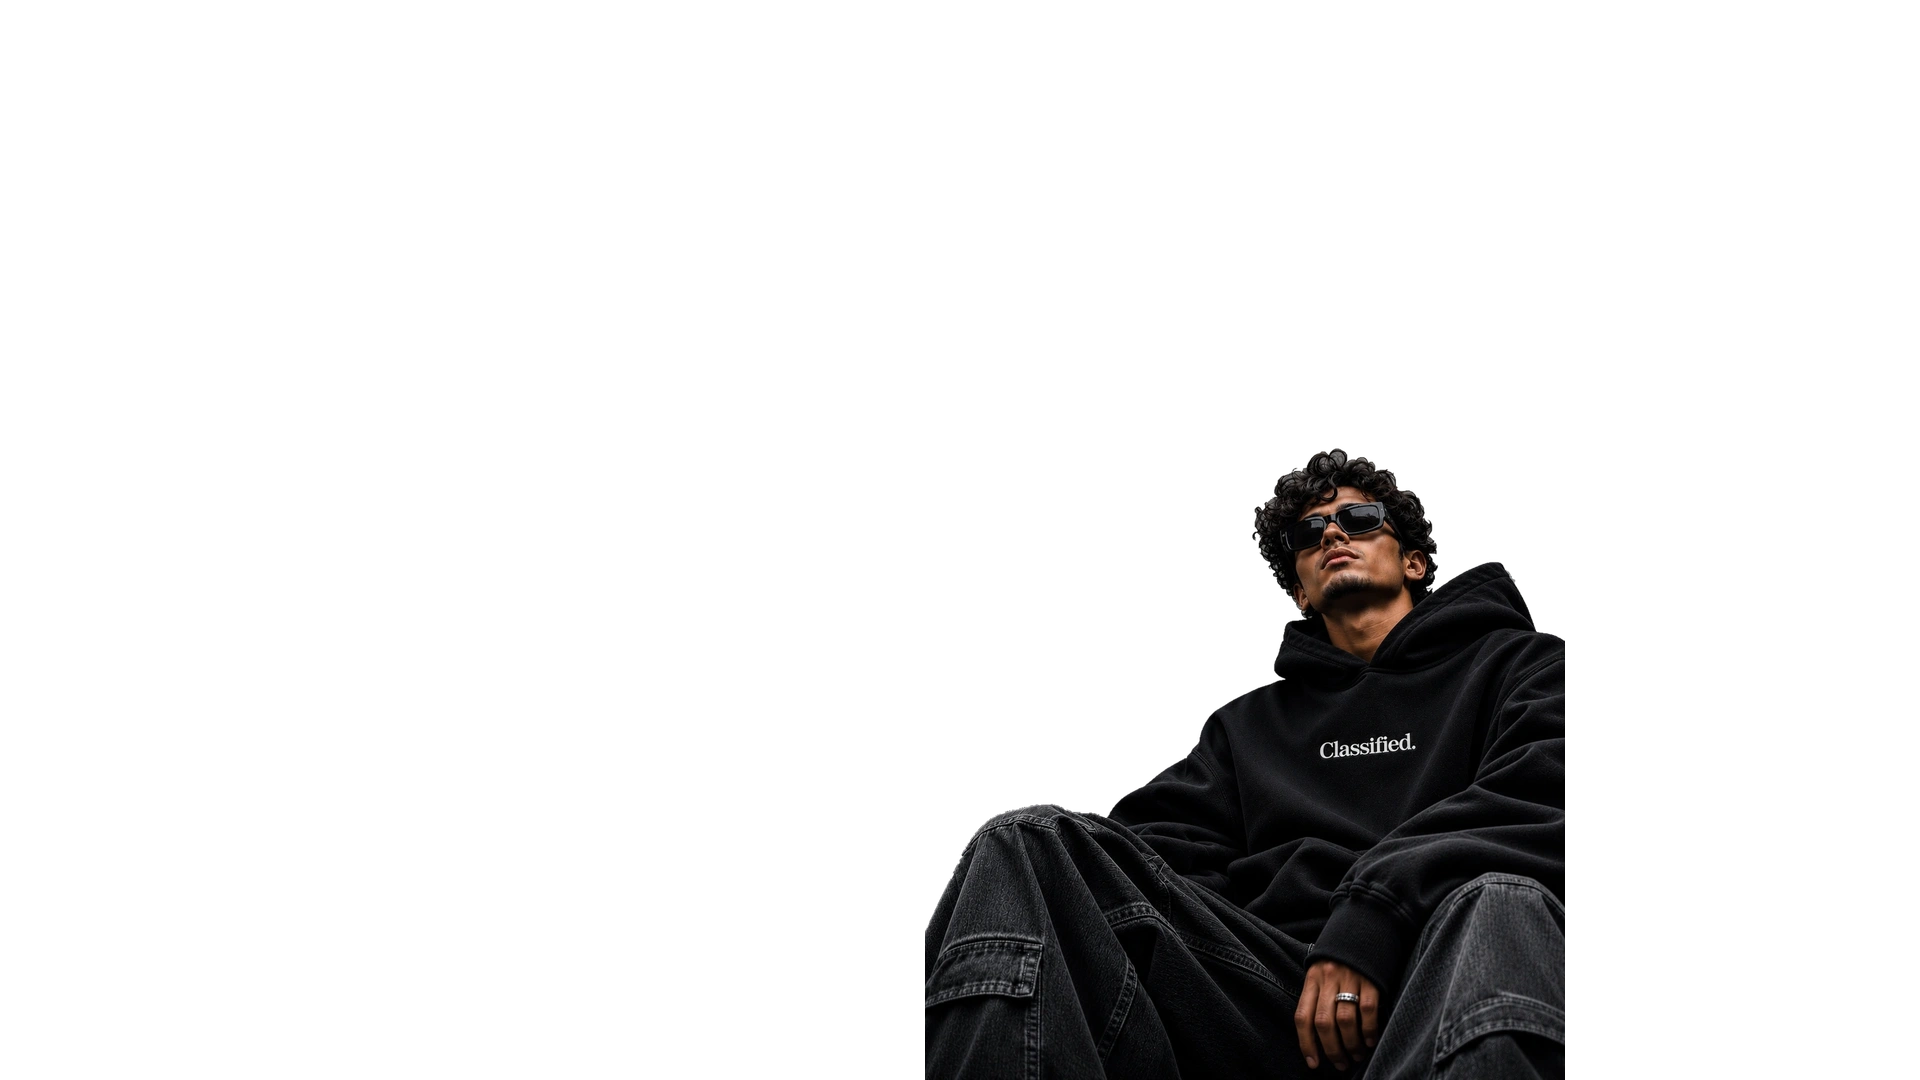
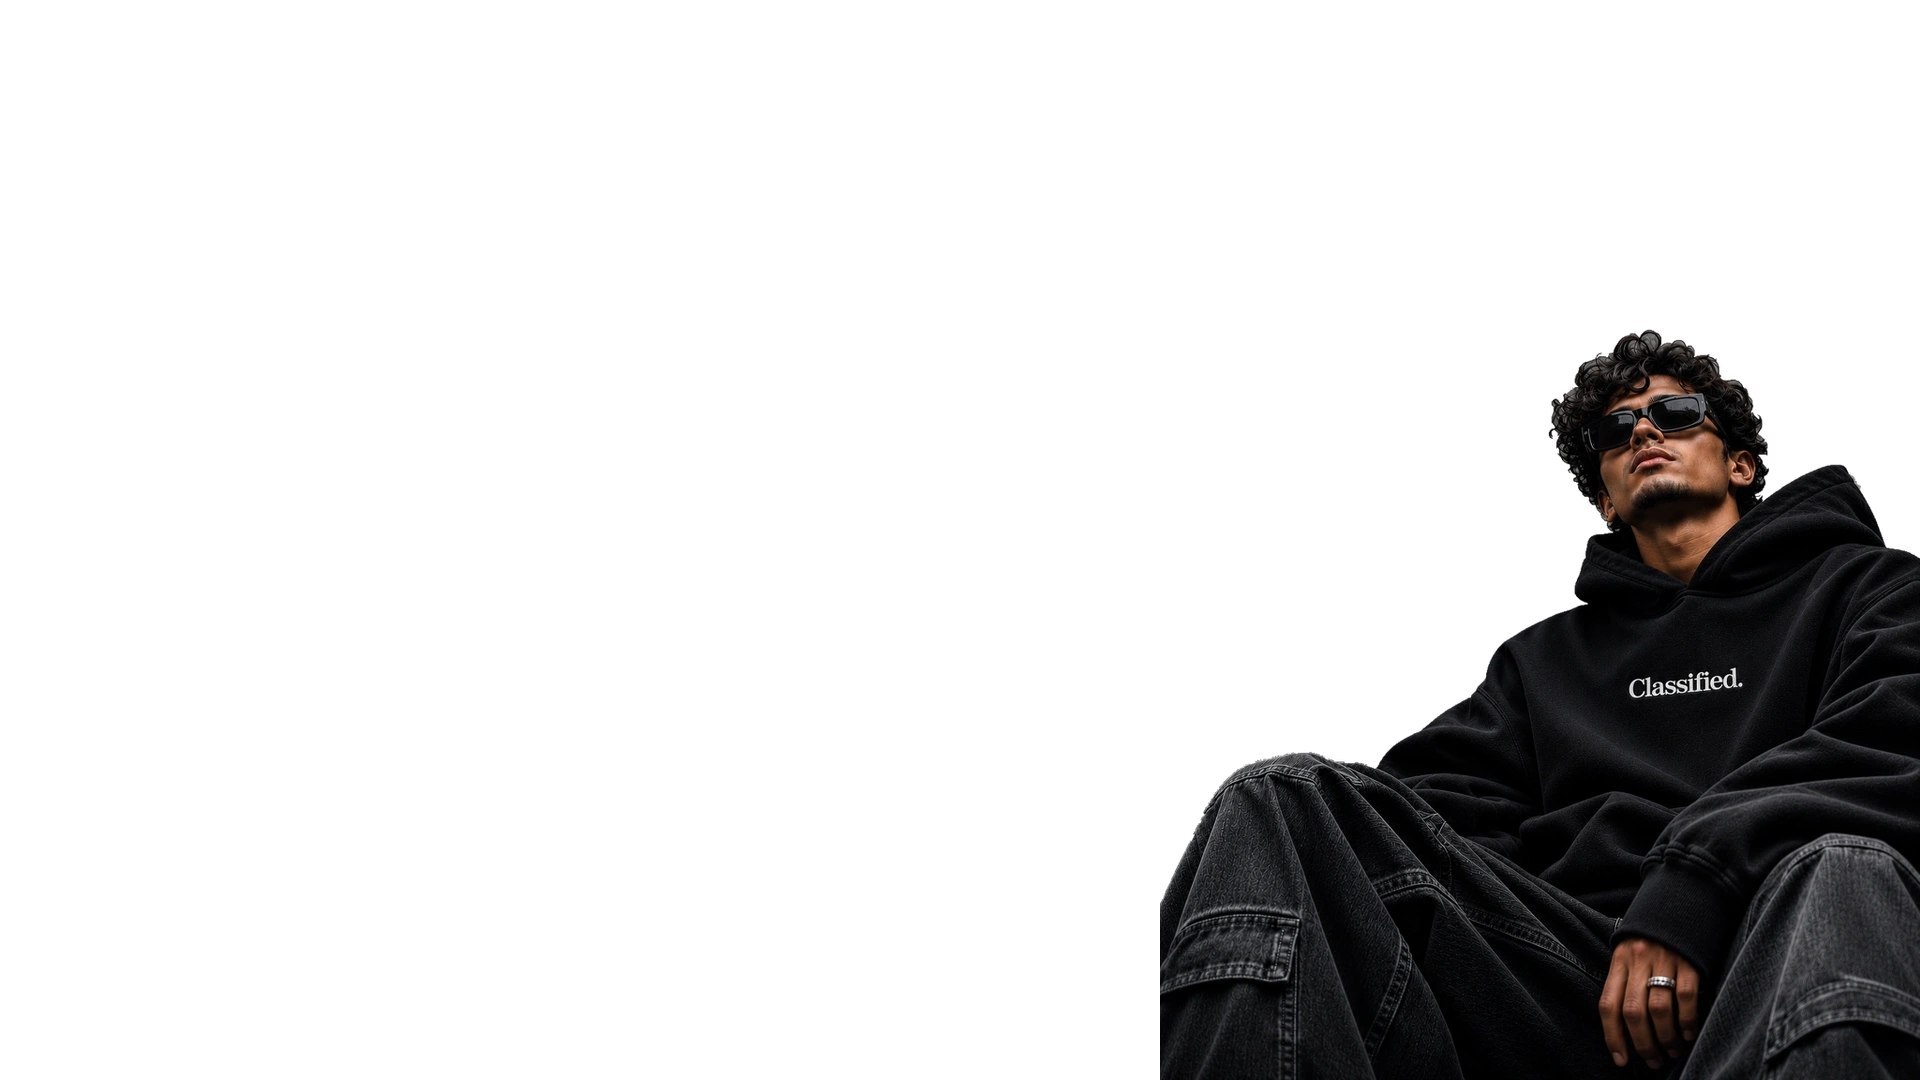
feat: add mobile boy hero campaign asset and layering to storefront section

Changed region(s): [[0.4688, 0.3056, 1.0, 1.0]]

diff --git a/src/features/storefront/components/hero-section.tsx b/src/features/storefront/components/hero-section.tsx
@@ -12,13 +12,14 @@ import { FounderCampaignDrawer } from "./founder-campaign-drawer";
 
 const heroBgMobile = "/images/hero-bg.webp";
 const heroSubjectMobile = "/images/hero-subject.webp";
-const heroBgDesktop = "/images/hero-bg-desktop.webp";
-const heroSubjectDesktop = "/images/hero-subject-desktop.webp";
+const heroBgDesktop = "/images/hero-bg-desktop.webp?v=5";
+const heroSubjectDesktop = "/images/hero-subject-desktop.webp?v=5";
 
 export function HeroSection() {
   const [campaign, setCampaign] = useState<HeroCampaignData>(defaultHeroCampaign);
   const [isEditorOpen, setIsEditorOpen] = useState(false);
   const [mouseOffset, setMouseOffset] = useState({ x: 0, y: 0 });
+  const [scrollY, setScrollY] = useState(0);
 
   useEffect(() => {
     setCampaign(getStoredHeroCampaign());
@@ -39,13 +40,42 @@ export function HeroSection() {
       }
     }
 
-    return () => window.removeEventListener("keydown", handleKey);
+    // Scroll parallax tracker for both smartphone and desktop
+    let rafId: number;
+    const handleScroll = () => {
+      cancelAnimationFrame(rafId);
+      rafId = requestAnimationFrame(() => {
+        if (window.scrollY < 1200) {
+          setScrollY(window.scrollY);
+        }
+      });
+    };
+    window.addEventListener("scroll", handleScroll, { passive: true });
+
+    // Gyroscope / device tilt spatial parallax on smartphones
+    const handleOrientation = (e: DeviceOrientationEvent) => {
+      if (e.gamma === null || e.beta === null) return;
+      const x = Math.max(-1, Math.min(1, e.gamma / 25));
+      const y = Math.max(-1, Math.min(1, (e.beta - 45) / 25));
+      setMouseOffset({ x, y });
+    };
+
+    if (typeof window !== "undefined" && "DeviceOrientationEvent" in window) {
+      window.addEventListener("deviceorientation", handleOrientation, { passive: true });
+    }
+
+    return () => {
+      window.removeEventListener("keydown", handleKey);
+      window.removeEventListener("scroll", handleScroll);
+      if (typeof window !== "undefined" && "DeviceOrientationEvent" in window) {
+        window.removeEventListener("deviceorientation", handleOrientation);
+      }
+      cancelAnimationFrame(rafId);
+    };
   }, []);
 
-  // Subtle interactive 3D spatial parallax on desktop
+  // Subtle interactive 3D spatial parallax on desktop pointer hover
   const handleMouseMove = useCallback((e: React.MouseEvent<HTMLElement>) => {
-    // Only apply on screens wider than 768px
-    if (window.innerWidth < 768) return;
     const rect = e.currentTarget.getBoundingClientRect();
     const x = (e.clientX - rect.left) / rect.width - 0.5;
     const y = (e.clientY - rect.top) / rect.height - 0.5;
@@ -64,9 +94,9 @@ export function HeroSection() {
     >
       {/* 1. Background Layer: Concrete Architectural Wall */}
       <div
-        className="pointer-events-none absolute inset-0 -z-30 transition-transform duration-700 ease-out will-change-transform"
+        className="pointer-events-none absolute -inset-4 sm:-inset-8 scale-[1.04] sm:scale-105 -z-30 transition-transform duration-700 ease-out will-change-transform"
         style={{
-          transform: `translate3d(${mouseOffset.x * 12}px, ${mouseOffset.y * 12}px, 0)`,
+          transform: `translate3d(${mouseOffset.x * 10}px, ${mouseOffset.y * 6 + scrollY * 0.16}px, 0)`,
         }}
       >
         {/* Mobile Background (< 640px) */}
@@ -87,16 +117,16 @@ export function HeroSection() {
           priority
           unoptimized
           sizes="100vw"
-          className="hero-animate-bg hidden object-cover object-right sm:block"
+          className="hero-animate-bg hidden object-cover object-right-bottom sm:block"
         />
       </div>
 
       {/* 2. Middle Layer: Ghosted Giant C Brand Mark (strictly BEHIND subject) */}
       <div
         aria-hidden="true"
-        className="hero-animate-ghost pointer-events-none absolute right-[-2%] top-[-1%] -z-20 h-[58%] w-auto select-none opacity-50 mix-blend-screen transition-transform duration-500 ease-out sm:right-[22%] sm:top-[10%] sm:h-[60%] lg:right-[23%] lg:top-[10%] lg:h-[62%] will-change-transform"
+        className="hero-animate-ghost pointer-events-none absolute right-[-2%] top-[-1%] -z-20 h-[58%] w-auto select-none opacity-50 mix-blend-screen transition-transform duration-500 ease-out sm:right-[4%] sm:top-[5%] sm:h-[64%] lg:right-[4%] lg:top-[5%] lg:h-[66%] will-change-transform"
         style={{
-          transform: `translate3d(${mouseOffset.x * 24}px, ${mouseOffset.y * 24}px, 0)`,
+          transform: `translate3d(${mouseOffset.x * 18}px, ${mouseOffset.y * 10 + scrollY * 0.26}px, 0)`,
         }}
       >
         <svg
@@ -109,9 +139,9 @@ export function HeroSection() {
 
       {/* 3. Foreground Layer: Model Subject (Cutout) */}
       <div
-        className="pointer-events-none absolute inset-0 -z-10 transition-transform duration-500 ease-out will-change-transform"
+        className="pointer-events-none absolute -inset-4 sm:-inset-8 scale-[1.04] sm:scale-105 -z-10 transition-transform duration-500 ease-out will-change-transform"
         style={{
-          transform: `translate3d(${mouseOffset.x * -16}px, ${mouseOffset.y * -14}px, 0)`,
+          transform: `translate3d(${mouseOffset.x * -12}px, ${mouseOffset.y * -8 + scrollY * 0.08}px, 0)`,
         }}
       >
         {/* Mobile Subject (< 640px) */}
@@ -132,7 +162,7 @@ export function HeroSection() {
           priority
           unoptimized
           sizes="100vw"
-          className="hero-animate-subject hidden object-cover object-right sm:block"
+          className="hero-animate-subject hidden object-cover object-right-bottom sm:block"
         />
       </div>
 
@@ -140,24 +170,30 @@ export function HeroSection() {
       <div aria-hidden="true" className="store-hero-shade absolute inset-0 -z-[5]" />
 
       {/* 5. Typography & Campaign Content Layer */}
-      <div className="relative z-10 mx-auto w-full max-w-[1600px] px-5 pt-[clamp(72px,10vh,96px)] pb-10 sm:px-8 sm:pb-20 sm:pt-24 lg:px-16 lg:pb-[clamp(76px,12vh,150px)] lg:pt-28">
-        <div className="max-w-[min(88vw,340px)] sm:max-w-[560px] motion-safe:animate-[cb-land-in_0.55s_ease-out_both]">
+      <div
+        className="relative z-10 mx-auto w-full max-w-[1600px] px-5 pt-[clamp(72px,10vh,96px)] pb-10 sm:px-8 sm:pb-20 sm:pt-24 lg:px-16 lg:pb-[clamp(76px,12vh,150px)] lg:pt-28 will-change-transform"
+        style={{
+          transform: `translate3d(0, ${scrollY * 0.18}px, 0)`,
+          opacity: Math.max(0, 1 - scrollY / 600),
+        }}
+      >
+        <div className="max-w-[min(88vw,340px)] sm:max-w-[560px]">
           {/* Eyebrow: Badge + Horizontal Rule */}
-          <div className="flex items-center gap-2.5 sm:gap-3">
+          <div className="flex items-center gap-2.5 sm:gap-3 [animation:hero-text-reveal_0.7s_cubic-bezier(0.16,1,0.3,1)_0.28s_both]">
             <span className="text-[clamp(10px,2.8vw,12px)] font-extrabold uppercase tracking-[0.26em] text-white sm:text-[13px] md:text-[14px]">
               {campaign.badge}
             </span>
-            <span className="h-[1.5px] w-[clamp(32px,8vw,52px)] bg-white/80 sm:w-16 md:w-20" aria-hidden="true" />
+            <span className="h-[1.5px] w-[clamp(32px,8vw,52px)] bg-white/80 sm:w-16 md:w-20 [animation:hero-line-draw_0.7s_cubic-bezier(0.16,1,0.3,1)_0.34s_both]" aria-hidden="true" />
           </div>
 
           {/* Subtitle */}
-          <p className="mt-1 text-[clamp(9px,2.4vw,10.5px)] font-semibold uppercase tracking-[0.24em] text-[#9ca3af] sm:text-[11px] md:text-[12px]">
+          <p className="mt-1 text-[clamp(9px,2.4vw,10.5px)] font-semibold uppercase tracking-[0.24em] text-[#9ca3af] sm:text-[11px] md:text-[12px] [animation:hero-text-reveal_0.7s_cubic-bezier(0.16,1,0.3,1)_0.4s_both]">
             {campaign.subtitle}
           </p>
 
           {/* 50% OFF Giant Lockup */}
           {campaign.showDiscount && (
-            <div className="mt-2 flex items-start gap-1 select-none leading-none sm:mt-3 sm:gap-2">
+            <div className="mt-2 flex items-start gap-1 select-none leading-none sm:mt-3 sm:gap-2 [animation:hero-discount-pop_0.85s_cubic-bezier(0.16,1,0.3,1)_0.48s_both]">
               {/* Giant Discount Number */}
               <span className="text-[clamp(3.4rem,16vw,5.2rem)] font-black italic tracking-[-0.045em] text-[#03bf93] leading-[0.84] sm:text-[clamp(4.2rem,12.8vw,8.6rem)]">
                 {campaign.discountNumber}
@@ -176,7 +212,7 @@ export function HeroSection() {
           )}
 
           {/* Main Manifesto Headline */}
-          <h1 className="mt-1.5 text-[clamp(1.85rem,8.4vw,2.75rem)] font-extrabold uppercase leading-[0.88] tracking-[-0.045em] text-white sm:mt-3 sm:text-[clamp(2.3rem,6.8vw,5.8rem)]">
+          <h1 className="mt-1.5 text-[clamp(1.85rem,8.4vw,2.75rem)] font-extrabold uppercase leading-[0.88] tracking-[-0.045em] text-white sm:mt-3 sm:text-[clamp(2.3rem,6.8vw,5.8rem)] [animation:hero-text-reveal_0.75s_cubic-bezier(0.16,1,0.3,1)_0.58s_both]">
             <span className="block">{campaign.titleLine1}</span>
             <span className="block">{campaign.titleLine2}</span>
           </h1>
@@ -184,12 +220,12 @@ export function HeroSection() {
           {/* Emerald Brand Accent Bar */}
           <div
             aria-hidden="true"
-            className="mt-3 h-[3px] w-[clamp(32px,8vw,44px)] rounded-full bg-[#03bf93] sm:mt-4 sm:h-[4px] sm:w-14"
+            className="mt-3 h-[3px] w-[clamp(32px,8vw,44px)] rounded-full bg-[#03bf93] sm:mt-4 sm:h-[4px] sm:w-14 [animation:hero-bar-grow_0.7s_cubic-bezier(0.16,1,0.3,1)_0.68s_both]"
           />
 
           {/* Duration Date Row */}
           {campaign.showDuration && (
-            <div className="mt-3 flex items-center gap-1.5 text-zinc-300 sm:mt-4 sm:gap-2">
+            <div className="mt-3 flex items-center gap-1.5 text-zinc-300 sm:mt-4 sm:gap-2 [animation:hero-text-reveal_0.7s_cubic-bezier(0.16,1,0.3,1)_0.76s_both]">
               <StoreIcon name="calendar" size={14} className="text-[#03bf93]" />
               <span className="text-[clamp(9.5px,2.6vw,11px)] font-bold uppercase tracking-[0.22em] text-[#e0e0e0] sm:text-[11.5px]">
                 {campaign.durationDate}

diff --git a/src/app/globals.css b/src/app/globals.css
@@ -396,38 +396,101 @@ nextjs-portal {
   }
 }
 
-@keyframes hero-fade-up {
-  from {
+@keyframes hero-bg-land {
+  0% {
     opacity: 0;
-    transform: translateY(16px);
+    transform: scale(1.08);
   }
-  to {
-    opacity: 1;
-    transform: translateY(0);
-  }
-}
-
-@keyframes hero-scale-reveal {
-  from {
-    opacity: 0;
-    transform: scale(1.05);
-  }
-  to {
+  100% {
     opacity: 1;
     transform: scale(1);
   }
 }
 
+@keyframes hero-subject-land {
+  0% {
+    opacity: 0;
+    transform: translateY(28px) scale(0.97);
+  }
+  100% {
+    opacity: 1;
+    transform: translateY(0) scale(1);
+  }
+}
+
+@keyframes hero-ghost-land {
+  0% {
+    opacity: 0;
+    transform: scale(0.88);
+  }
+  100% {
+    opacity: 0.5;
+    transform: scale(1);
+  }
+}
+
+@keyframes hero-text-reveal {
+  0% {
+    opacity: 0;
+    transform: translateY(20px);
+  }
+  100% {
+    opacity: 1;
+    transform: translateY(0);
+  }
+}
+
+@keyframes hero-discount-pop {
+  0% {
+    opacity: 0;
+    transform: scale(0.92) translateY(16px);
+  }
+  60% {
+    opacity: 1;
+    transform: scale(1.02) translateY(-2px);
+  }
+  100% {
+    opacity: 1;
+    transform: scale(1) translateY(0);
+  }
+}
+
+@keyframes hero-bar-grow {
+  0% {
+    opacity: 0;
+    transform: scaleX(0);
+    transform-origin: left;
+  }
+  100% {
+    opacity: 1;
+    transform: scaleX(1);
+    transform-origin: left;
+  }
+}
+
+@keyframes hero-line-draw {
+  0% {
+    opacity: 0;
+    transform: scaleX(0);
+    transform-origin: left;
+  }
+  100% {
+    opacity: 0.8;
+    transform: scaleX(1);
+    transform-origin: left;
+  }
+}
+
 .hero-animate-bg {
-  animation: hero-scale-reveal 1.2s cubic-bezier(0.16, 1, 0.3, 1) both;
+  animation: hero-bg-land 1.4s cubic-bezier(0.16, 1, 0.3, 1) both;
 }
 
 .hero-animate-subject {
-  animation: hero-fade-up 0.9s cubic-bezier(0.16, 1, 0.3, 1) 0.15s both;
+  animation: hero-subject-land 1.2s cubic-bezier(0.16, 1, 0.3, 1) 0.12s both;
 }
 
 .hero-animate-ghost {
-  animation: hero-fade-up 1.1s cubic-bezier(0.16, 1, 0.3, 1) 0.25s both;
+  animation: hero-ghost-land 1.3s cubic-bezier(0.16, 1, 0.3, 1) 0.22s both;
 }
 
 @media (min-width: 640px) {
